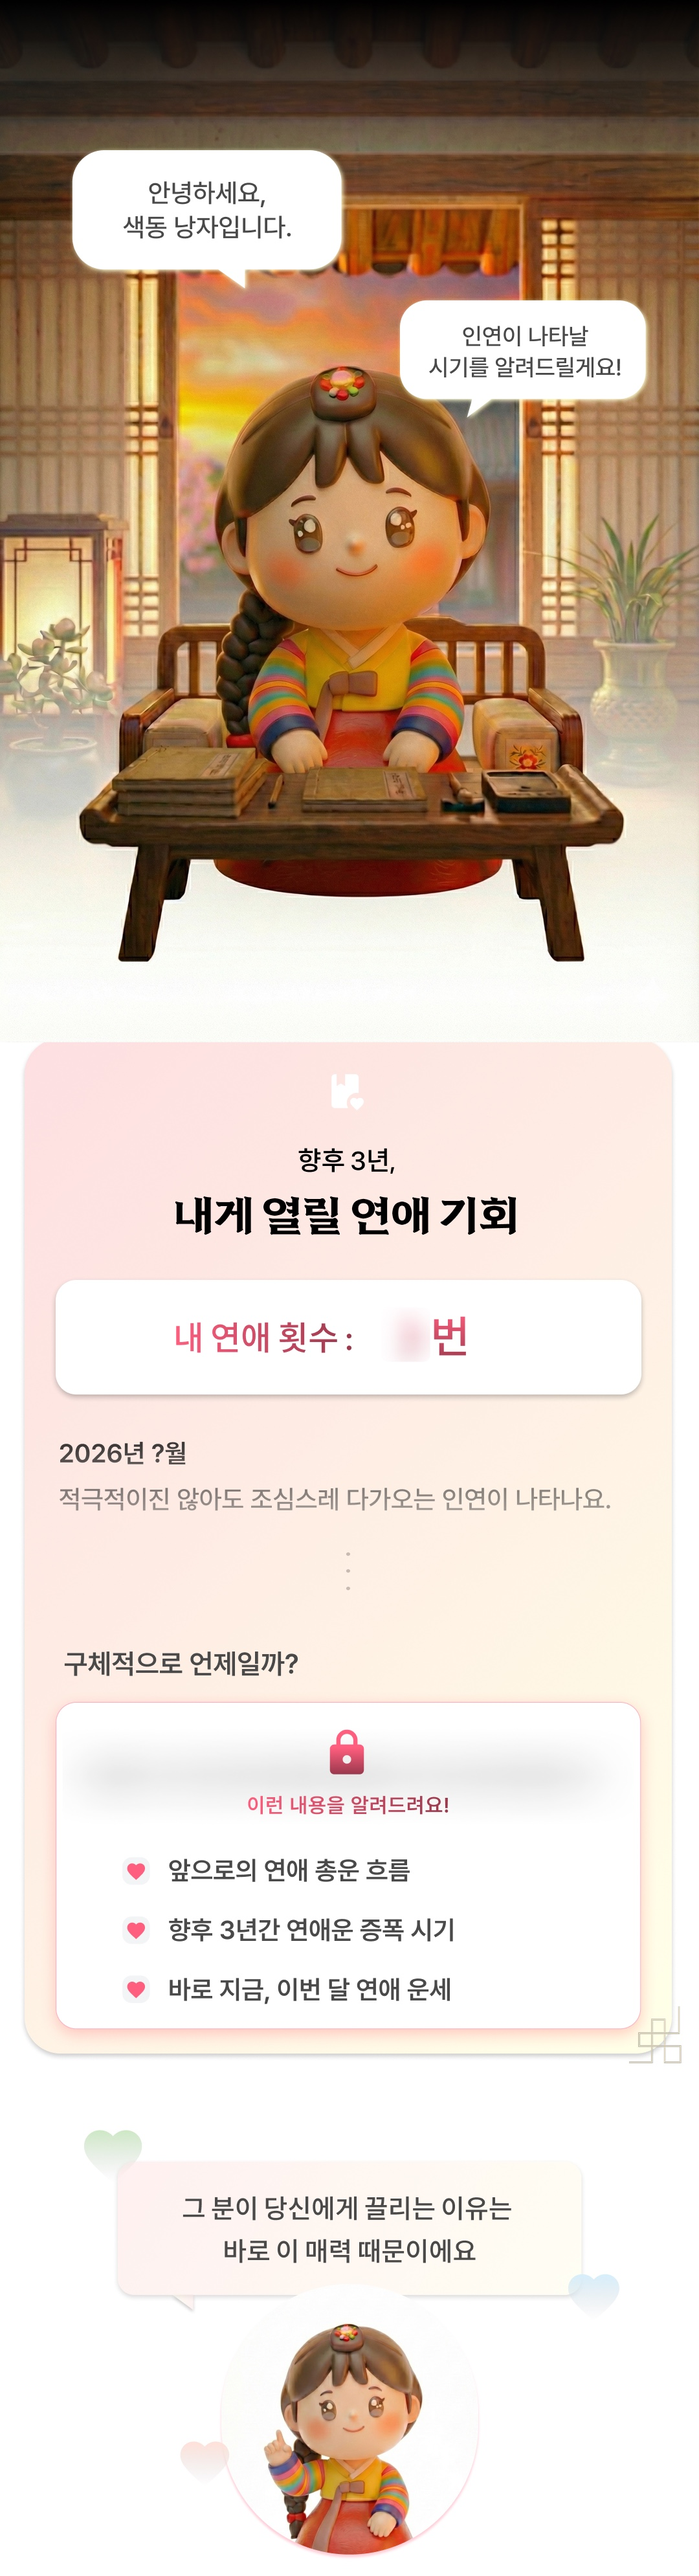
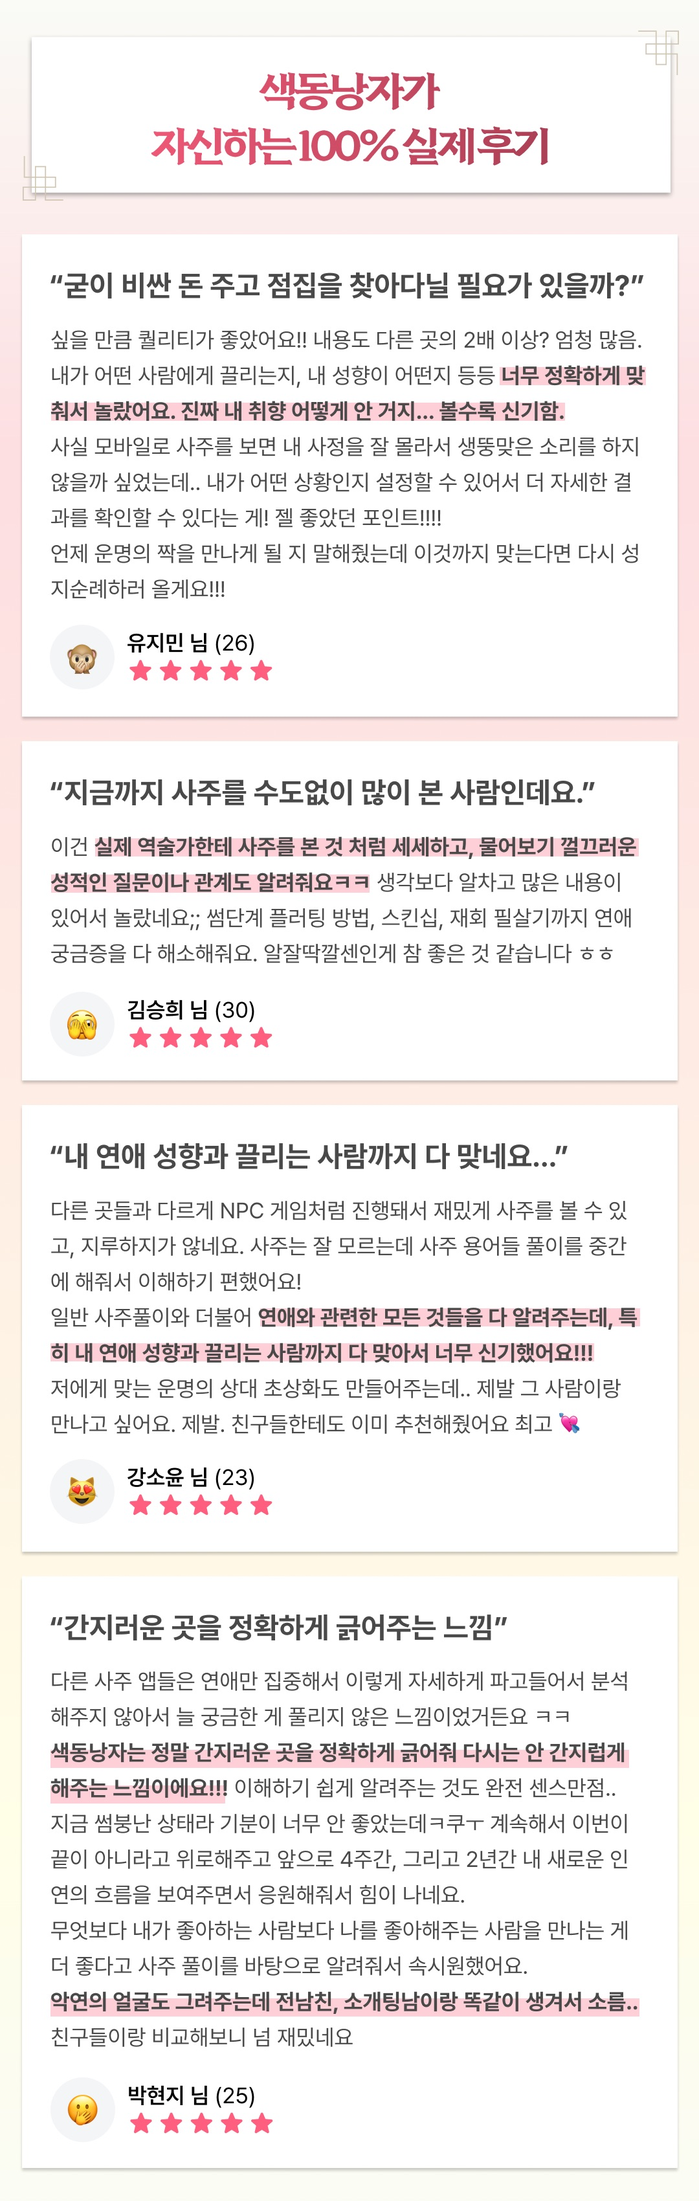
atatat

diff --git a/app/saju-love/detail/page.tsx b/app/saju-love/detail/page.tsx
@@ -10,7 +10,11 @@ import {
   trackPaymentAttempt,
   trackPaymentSuccess,
 } from "@/lib/mixpanel";
-import { getSajuLoveRecord, SajuLoveRecord, markSajuLovePaid } from "@/lib/db/sajuLoveDB";
+import {
+  getSajuLoveRecord,
+  SajuLoveRecord,
+  markSajuLovePaid,
+} from "@/lib/db/sajuLoveDB";
 import "./detail.css";
 
 // TossPayments 타입 선언
@@ -206,7 +210,9 @@ function SajuDetailContent() {
     code: string;
     discount: number;
   } | null>(null);
-  const paymentWidgetRef = useRef<ReturnType<typeof window.PaymentWidget> | null>(null);
+  const paymentWidgetRef = useRef<ReturnType<
+    typeof window.PaymentWidget
+  > | null>(null);
 
   // 데이터 로드 (IndexedDB에서)
   useEffect(() => {
@@ -322,7 +328,9 @@ function SajuDetailContent() {
       });
 
       // 결제 완료 후 result 페이지로 이동 (paid=true 상태로)
-      router.push(`/saju-love/result?id=${encodeURIComponent(data.id)}&paid=true`);
+      router.push(
+        `/saju-love/result?id=${encodeURIComponent(data.id)}&paid=true`
+      );
     }
     // 할인 쿠폰 (5000원 할인)
     else if (couponCode === "boniiii" || couponCode === "차세린") {
@@ -583,7 +591,6 @@ function SajuDetailContent() {
               </table>
             </div>
           </div>
-
         </section>
 
         {/* 섹션 2: 나의 결정적 매력 */}
@@ -636,12 +643,24 @@ function SajuDetailContent() {
             {/* eslint-disable-next-line @next/next/no-img-element */}
             <img src="/saju-love/img/detail2.jpg" alt="운명의 상대" />
           </div>
+          <div className="hero_image">
+            {/* eslint-disable-next-line @next/next/no-img-element */}
+            <img src="/saju-love/img/detail3.jpg" alt="연애 사주 분석" />
+          </div>
+          <div className="hero_image">
+            {/* eslint-disable-next-line @next/next/no-img-element */}
+            <img src="/saju-love/img/detail4.jpg" alt="사주 상세 분석" />
+          </div>
         </section>
 
-         {/* 고민 유도 섹션 */}
+        {/* 고민 유도 섹션 */}
         <div className="hesitate_section">
           <p className="hesitate_question">아직 고민하고 계신가요?</p>
-          <p className="hesitate_hint">사실 이미 사주 분석은 하고 있어요!</p>
+          <div className="hesitate_hint_box">
+            <p className="hesitate_hint">
+              <strong>색동낭자가 이미 연애 사주를 분석하고 있어요!</strong>
+            </p>
+          </div>
         </div>
 
         {/* 가격 비교 섹션 */}
@@ -652,19 +671,31 @@ function SajuDetailContent() {
           </p>
           <div className="price_compare_cards">
             <div className="price_card">
-              <span className="price_card_badge">오프라인<br/>사주</span>
+              <span className="price_card_badge">
+                오프라인
+                <br />
+                사주
+              </span>
               <span className="price_card_value">5만원</span>
               <span className="price_card_sep">~</span>
               <span className="price_card_value">30만원</span>
             </div>
             <div className="price_card">
-              <span className="price_card_badge">온라인<br/>사주</span>
+              <span className="price_card_badge">
+                온라인
+                <br />
+                사주
+              </span>
               <span className="price_card_value">3만원</span>
               <span className="price_card_sep">~</span>
               <span className="price_card_value">5만원</span>
             </div>
             <div className="price_card">
-              <span className="price_card_badge">프리미엄<br/>신점</span>
+              <span className="price_card_badge">
+                프리미엄
+                <br />
+                신점
+              </span>
               <span className="price_card_value">20만원</span>
               <span className="price_card_sep">~</span>
               <span className="price_card_value">400만원</span>

diff --git a/app/saju-love/detail/detail.css b/app/saju-love/detail/detail.css
@@ -1187,26 +1187,144 @@
 /* ===== 고민 유도 섹션 ===== */
 .hesitate_section {
   margin-top: 40px;
-  padding: 28px 20px;
+  padding: 40px 20px;
   text-align: center;
+  background: linear-gradient(180deg, #fff8f8 0%, #fff0f5 50%, #fff8f8 100%);
+  position: relative;
+  overflow: hidden;
+}
+
+.hesitate_section::before {
+  content: "";
+  position: absolute;
+  top: 0;
+  left: -50%;
+  width: 200%;
+  height: 100%;
+  background: linear-gradient(
+    90deg,
+    transparent,
+    rgba(255, 255, 255, 0.4),
+    transparent
+  );
+  animation: shimmer 3s ease-in-out infinite;
+}
+
+@keyframes shimmer {
+  0% { transform: translateX(-100%); }
+  100% { transform: translateX(100%); }
 }
 
 .hesitate_question {
-  font-size: 18px;
+  font-size: 20px;
   font-weight: 700;
   color: #333;
-  margin: 0 0 12px 0;
+  margin: 0 0 20px 0;
+  position: relative;
+}
+
+.hesitate_hint_box {
+  display: flex;
+  align-items: center;
+  justify-content: center;
+  gap: 12px;
+  margin-bottom: 20px;
+  position: relative;
+}
+
+.hesitate_sparkle {
+  font-size: 20px;
+  color: #e74c3c;
+  animation: sparkle 1.5s ease-in-out infinite;
+}
+
+.hesitate_sparkle:last-child {
+  animation-delay: 0.75s;
+}
+
+@keyframes sparkle {
+  0%, 100% {
+    opacity: 0.4;
+    transform: scale(0.8) rotate(0deg);
+  }
+  50% {
+    opacity: 1;
+    transform: scale(1.2) rotate(180deg);
+  }
 }
 
 .hesitate_hint {
-  font-size: 14px;
+  font-size: 18px;
   font-weight: 500;
-  color: #b85a85;
+  color: #c0392b;
   margin: 0;
-  padding: 10px 16px;
-  background: rgba(184, 90, 133, 0.08);
-  border-radius: 20px;
+  padding: 16px 28px;
+  background: linear-gradient(135deg, #fff 0%, #fff8f5 100%);
+  border-radius: 30px;
   display: inline-block;
+  box-shadow:
+    0 4px 20px rgba(231, 76, 60, 0.15),
+    0 0 0 2px rgba(231, 76, 60, 0.1),
+    inset 0 -2px 0 rgba(231, 76, 60, 0.05);
+  position: relative;
+  animation: pulse-border 2s ease-in-out infinite;
+}
+
+.hesitate_hint strong {
+  color: #e74c3c;
+  font-weight: 700;
+}
+
+@keyframes pulse-border {
+  0%, 100% {
+    box-shadow:
+      0 4px 20px rgba(231, 76, 60, 0.15),
+      0 0 0 2px rgba(231, 76, 60, 0.1),
+      inset 0 -2px 0 rgba(231, 76, 60, 0.05);
+  }
+  50% {
+    box-shadow:
+      0 6px 30px rgba(231, 76, 60, 0.25),
+      0 0 0 4px rgba(231, 76, 60, 0.15),
+      inset 0 -2px 0 rgba(231, 76, 60, 0.05);
+  }
+}
+
+.hesitate_progress {
+  width: 200px;
+  height: 6px;
+  background: rgba(231, 76, 60, 0.15);
+  border-radius: 3px;
+  margin: 0 auto 16px;
+  overflow: hidden;
+  position: relative;
+}
+
+.hesitate_progress_bar {
+  width: 75%;
+  height: 100%;
+  background: linear-gradient(90deg, #e74c3c, #ff6b6b, #e74c3c);
+  background-size: 200% 100%;
+  border-radius: 3px;
+  animation: progress-glow 2s ease-in-out infinite;
+}
+
+@keyframes progress-glow {
+  0% { background-position: 0% 50%; }
+  50% { background-position: 100% 50%; }
+  100% { background-position: 0% 50%; }
+}
+
+.hesitate_subtext {
+  font-size: 14px;
+  color: #888;
+  margin: 0;
+  animation: fade-pulse 2s ease-in-out infinite;
+}
+
+@keyframes fade-pulse {
+  0%, 100% { opacity: 0.6; }
+  50% { opacity: 1; }
 }
 
 /* ===== 가격 비교 섹션 ===== */
